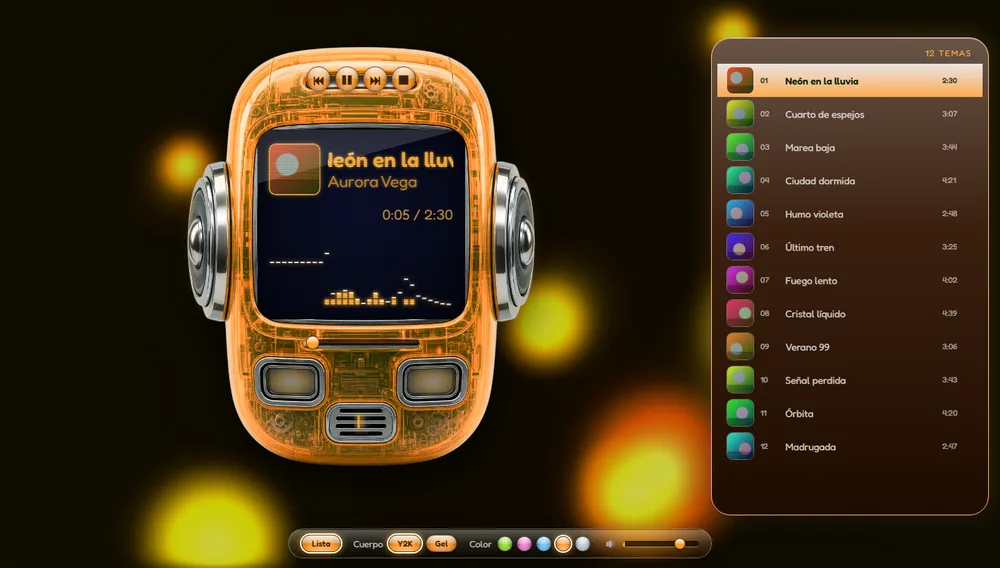
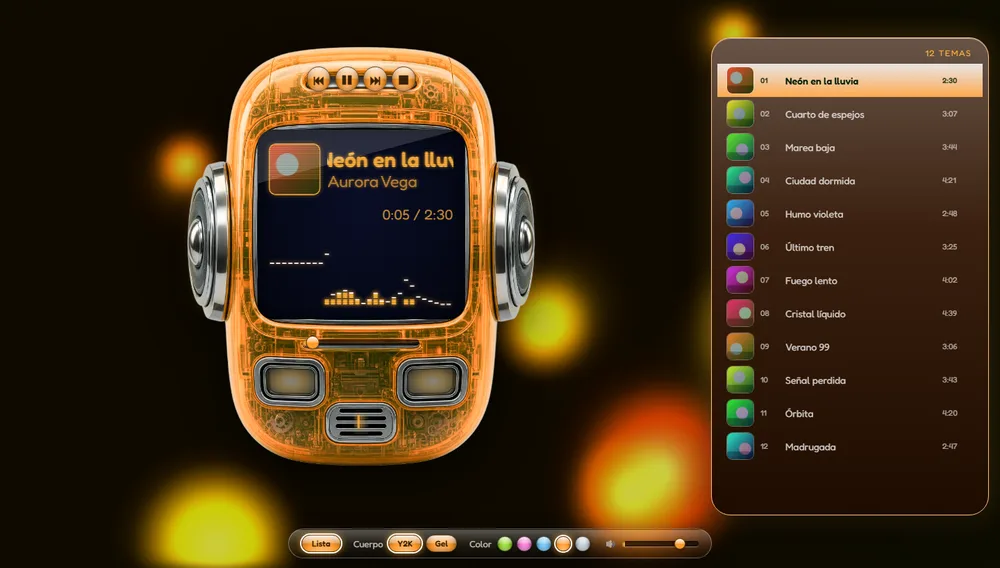
Headspace: la visualizacion gira detras de la cabeza y mantiene el color de la variante

Changed region(s): [[0.589, 0.7482, 0.713, 0.9278], [0.155, 0.2993, 0.217, 0.3292], [0.279, 0.4489, 0.31, 0.4789]]

diff --git a/web/visu2000.js b/web/visu2000.js
@@ -2,12 +2,13 @@
 // y opción "Visualización 2000" de las plantillas propias. Se dibujan en vivo con la música a baja resolución y se estiran
 // (se ven suaves y brillantes, como entonces). La "retroalimentación" (cada cuadro redibuja el anterior un poco más
 // grande, girado y desvanecido) hace los túneles y las estelas. Entre un efecto y otro hay un fundido de 2 s.
-// crearVisu2000(canvas) → { grupo([efectos]), intervalo(seg, 0 = solo al cambiar de canción), velocidad(0.1-1.5), siguiente(),
+// crearVisu2000(canvas) → { grupo([efectos]), intervalo(seg, 0 = solo al cambiar de canción), velocidad(0.1-1.5), centro(x, y en 0-1), siguiente(),
 //                           dibujar(t, espectro, onda, bajo, medio, agudo, tono) }
 "use strict";
 const VISU2000 = ["estrellas", "anillos", "barras", "bateria", "llamas", "remolino", "rayos", "onda", "agua", "caleido", "lava"];
 function crearVisu2000(canvas) {
-  const W = 480, H = 270, CX = W / 2, CY = H / 2, FUNDIDO = 2;
+  const W = 480, H = 270, FUNDIDO = 2;
+  let CX = W / 2, CY = H / 2;   // el centro de los efectos (la plantilla lo puede poner detrás de su reproductor)
   const lienzo = () => { const c = document.createElement("canvas"); c.width = W; c.height = H; return c; };
   canvas.width = W; canvas.height = H;
   const o = canvas.getContext("2d"), trabajo = lienzo(), g = trabajo.getContext("2d"), copia = lienzo(), c2 = copia.getContext("2d"), viejo = lienzo();
@@ -137,7 +138,7 @@ function crearVisu2000(canvas) {
       });
     },
     onda(t, x) {
-      eco(1.02 + x.bajo * .02, -.02, .95, "blur(.6px) hue-rotate(4deg)");
+      eco(1.02 + x.bajo * .02, -.02, .95, "blur(.6px)");   // sin correr el tono: el color se queda en el del skin o la variante
       sumar(() => {
         for (let rep = 0; rep < 2; rep++) {   // la onda real en cruz; la retroalimentación la vuelve remolino
           g.save(); g.translate(CX, CY); g.rotate(t * .5 + rep * Math.PI / 2);
@@ -171,13 +172,13 @@ function crearVisu2000(canvas) {
       });
     },
     caleido(t, x) {
-      eco(1.012, .012, .9, "hue-rotate(2deg)");
+      eco(1.012, .012, .9);
       const N = 8, R = W * .62;
       sumar(() => {
         g.lineWidth = 1.4;
         for (let k = 0; k < N; k++) for (const lado of [1, -1]) {   // un trozo de la onda repetido en espejo alrededor del centro
           g.save(); g.translate(CX, CY); g.rotate(k / N * Math.PI * 2 + t * .2); g.scale(1, lado);
-          g.strokeStyle = col(x.tono + k * 6, 52, .45); g.beginPath();
+          g.strokeStyle = col(x.tono + (k % 3) * 6 - 6, 52, .45); g.beginPath();
           for (let i = 0; i < 64; i++) { const v = (x.onda[i * 8] - 128) / 128; i ? g.lineTo(i / 64 * R, 8 + v * R * .35 * (1 + x.bajo)) : g.moveTo(0, 8); }
           g.stroke(); g.restore();
         }
@@ -194,6 +195,7 @@ function crearVisu2000(canvas) {
     grupo(l) { const nueva = (l || VISU2000).filter(e => EFECTOS[e]); if (nueva.join() !== lista.join()) { lista = nueva.length ? nueva : VISU2000.slice(); modo = -1; cambiar(); } },
     intervalo(s) { cada = s; },
     velocidad(v) { V = Math.max(.1, Math.min(1.5, v)); },
+    centro(fx, fy) { CX = W * Math.max(0, Math.min(1, fx)); CY = H * Math.max(0, Math.min(1, fy)); },
     siguiente: cambiar,
     dibujar(t, d, onda, bajo, medio, agudo, tono) {
       // se adapta a la música: el bajo se mide contra su pico reciente (con bajo potente no queda todo al máximo)

diff --git a/web/headspace.html b/web/headspace.html
@@ -265,7 +265,9 @@ const segBoca = $("boca").children;
 R.cadaCuadro((t) => {
   const d = R.espectro();
   const bajo = R.energia(d, 1, 8), medio = R.energia(d, 8, 60), agudo = R.energia(d, 60, 200);
-  visu.dibujar(t, d, R.ondaAudio(), bajo, medio, agudo, tonoDe(color.led));
+  const rc = $("cabeza").getBoundingClientRect();   // la visualización gira justo detrás de la cabeza (se corre cuando se abre la lista)
+  visu.centro((rc.left + rc.width / 2) / innerWidth, (rc.top + rc.height * .42) / innerHeight);
+  visu.dibujar(t, d, R.ondaAudio(), bajo, medio, agudo, tonoDe(color.gel));   // el tono del cuerpo (el LED es más amarillento)
   dibujarPantalla(d);
   raiz.setProperty("--p", (R.progreso() * 100).toFixed(2) + "%");
   ojos.forEach(o => { o.style.opacity = (0.12 + medio * 1.3).toFixed(2); });
